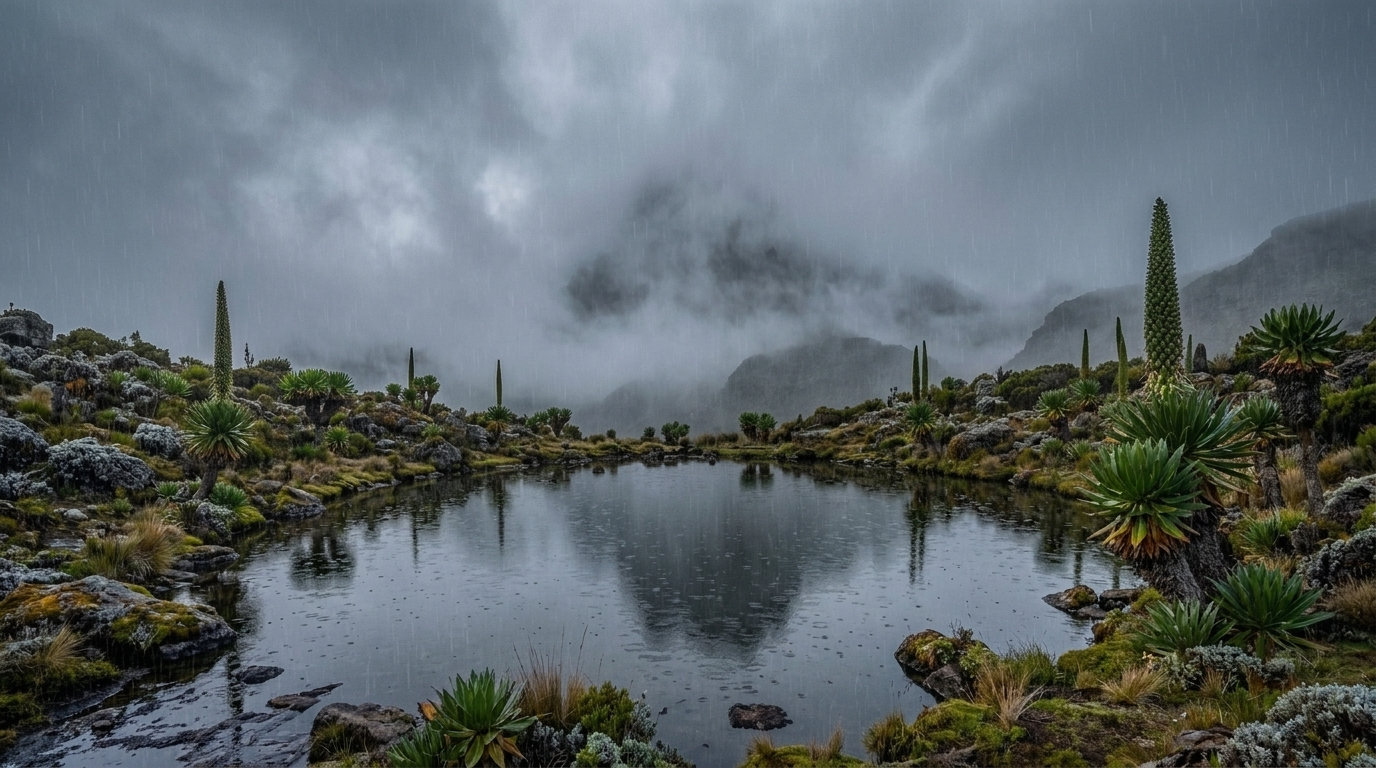
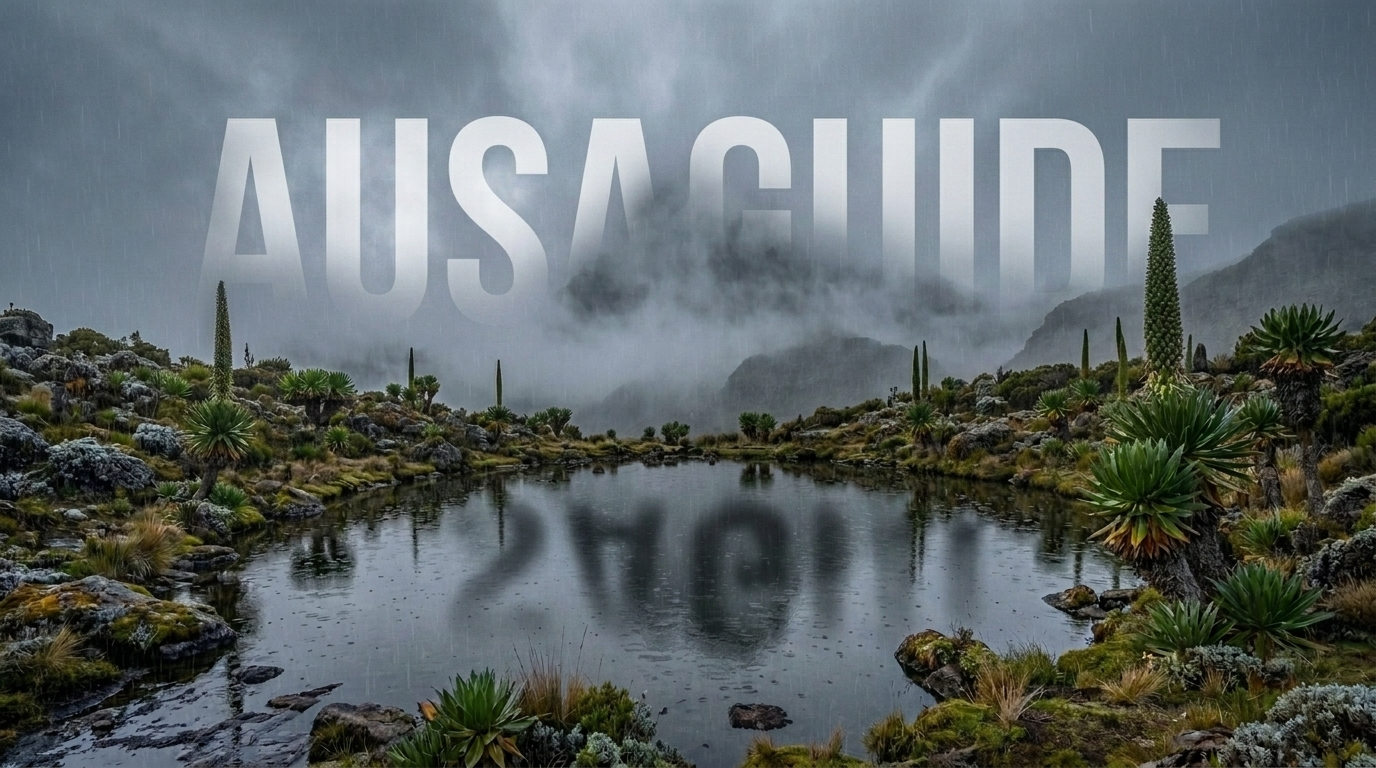
feat(hero): authentically mask AUSAGUIDE typography behind Mount Kenya peaks and fog

diff --git a/src/components/ui/image-stream-hero.tsx b/src/components/ui/image-stream-hero.tsx
@@ -361,12 +361,6 @@ export function ImageStreamHero() {
               />
             </div>
 
-            {/* ── Giant Editorial Depth Typography Behind Peak ── */}
-            <div className="absolute inset-x-0 top-[22%] sm:top-[26%] -translate-y-1/2 flex items-center justify-center pointer-events-none select-none z-20 px-2">
-              <span className="hero-giant-condensed text-center">
-                AUSAGUIDE
-              </span>
-            </div>
 
             {/* Top Right Label (Sunrise) */}
             <div className="absolute top-3 right-3 sm:top-5 sm:right-6 z-25 pointer-events-none">
